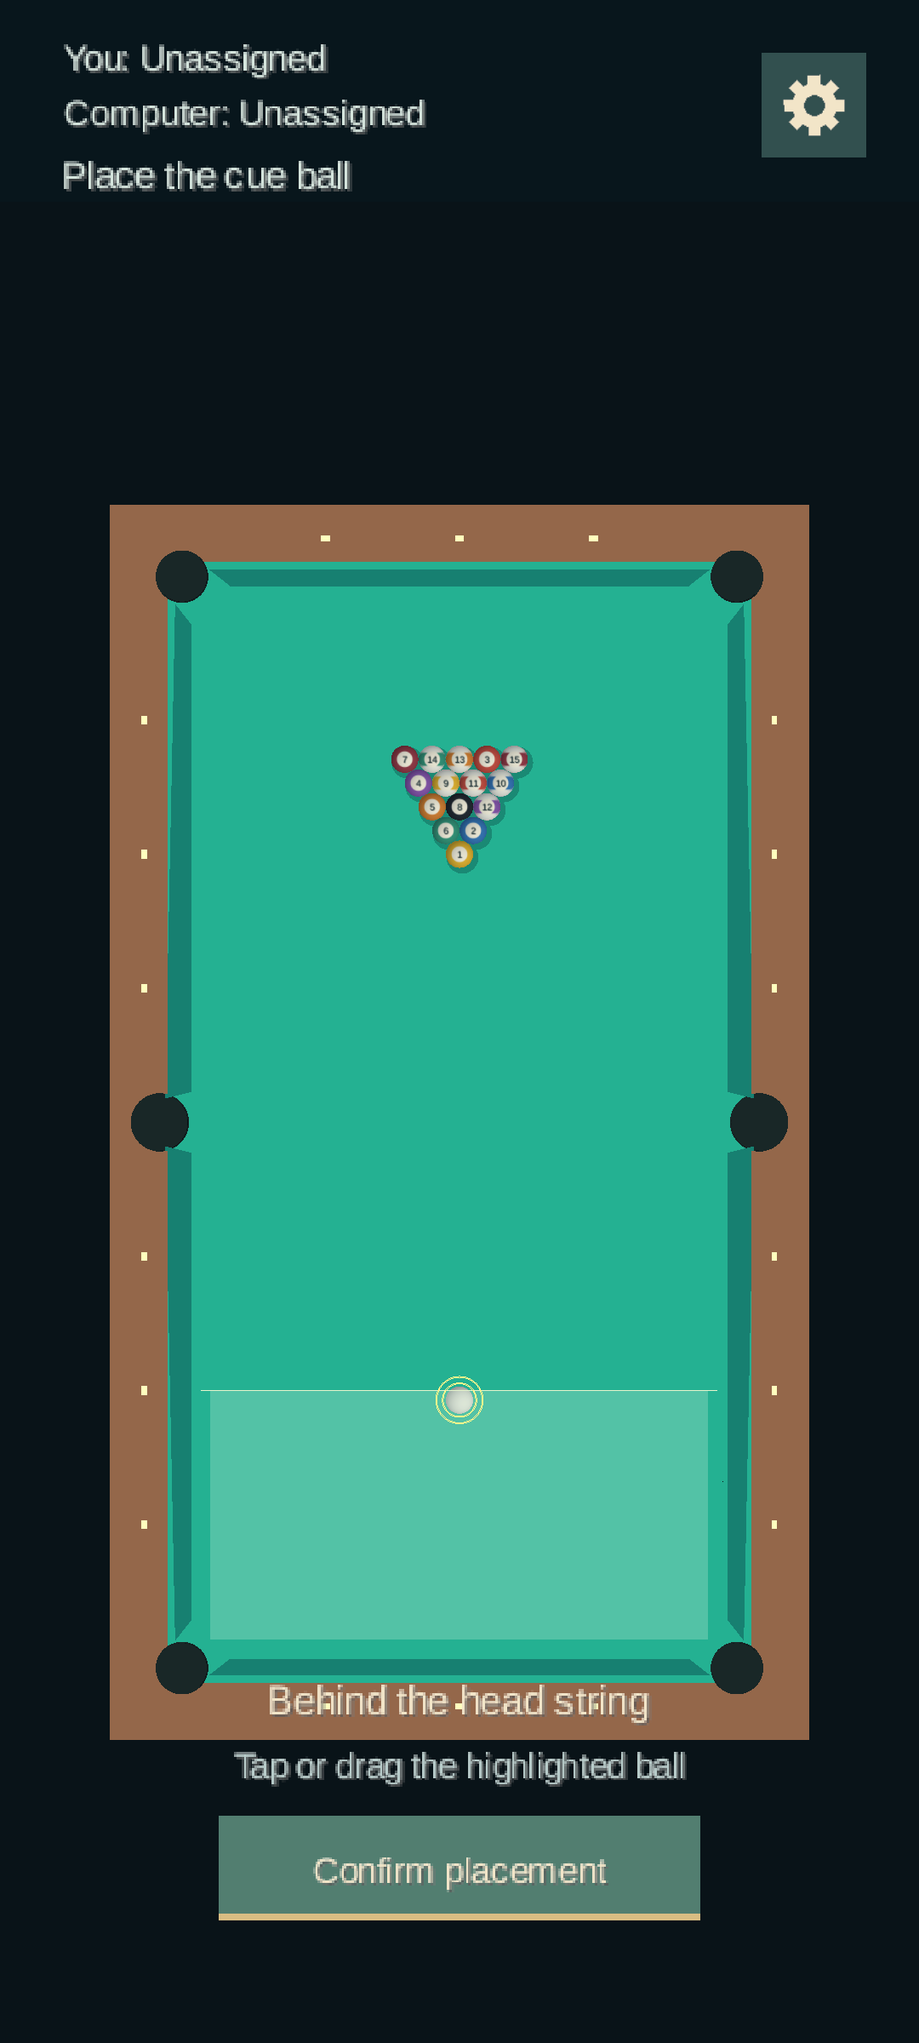
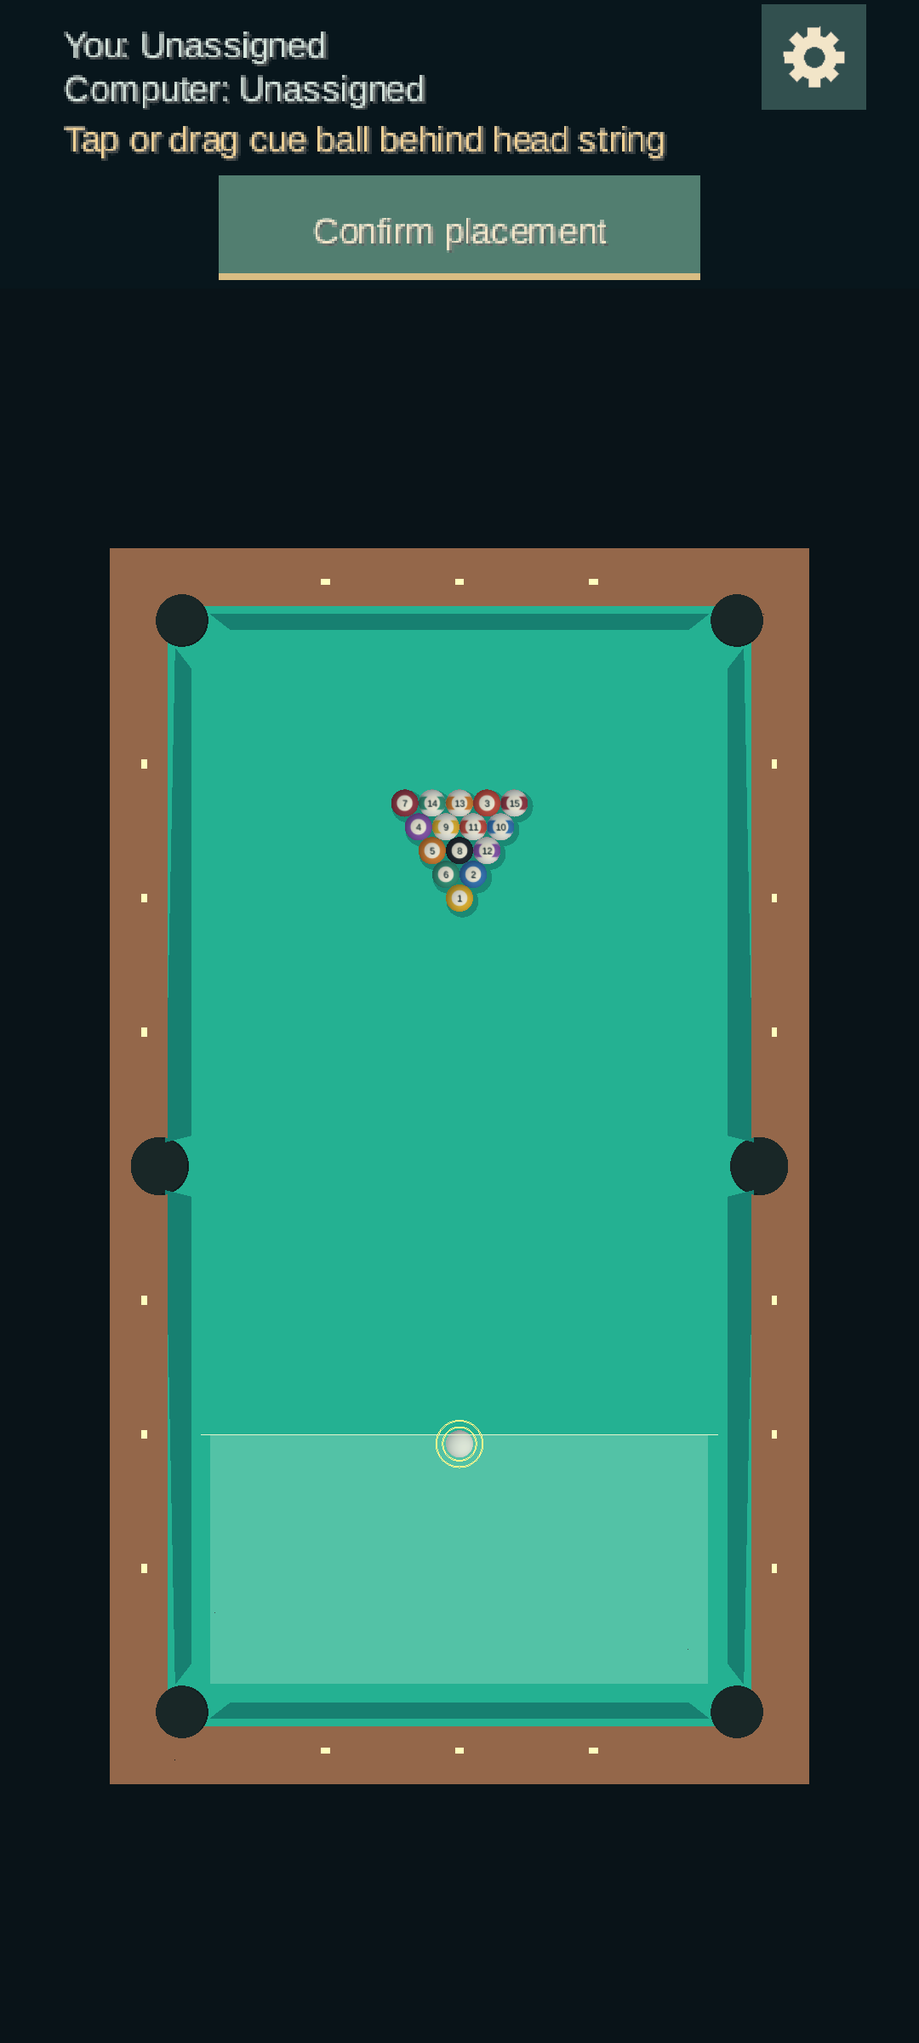
Consolidate notifications and move placement confirmation above table

diff --git a/core/src/main/kotlin/io/github/ffeltrinelli/pool/ui/GameHud.kt b/core/src/main/kotlin/io/github/ffeltrinelli/pool/ui/GameHud.kt
@@ -38,22 +38,34 @@ class GameHud : Disposable {
         finally { pixels.dispose() }
     }
 
+    private var width = 420
+    private var height = 933
+
     fun resize(width: Int, height: Int) {
-        layout = HudLayout(width, height)
+        this.width = width
+        this.height = height
+        updateLayout(layout.placementVisible)
+    }
+
+    private fun updateLayout(placementVisible: Boolean, notificationHeight: Float = 13f) {
+        layout = HudLayout(width, height, placementVisible, notificationHeight)
         camera.setToOrtho(false, 420f, layout.uiHeight)
     }
 
+    fun prepare(session: GameSession, presentation: HudPresentation) {
+        font.data.setScale(1.10f)
+        glyphs.setText(font, notification(session, presentation), Color.WHITE, 362f,
+            com.badlogic.gdx.utils.Align.left, true)
+        val next = HudLayout(width, height, session.placement != null && session.player == Player.HUMAN, glyphs.height)
+        if (next.headerHeight == layout.headerHeight && next.placementVisible == layout.placementVisible) return
+        updateLayout(next.placementVisible, glyphs.height)
+    }
+
     fun render(session: GameSession, mode: ViewMode, aidedAim: Boolean, presentation: HudPresentation) {
-        val h = layout.uiHeight
         sprites.projectionMatrix = camera.combined
         sprites.begin()
         drawHeader(session, presentation)
-        if (session.placement != null && session.player == Player.HUMAN) {
-            val instruction = if (session.placement == io.github.ffeltrinelli.pool.rules.PlacementRegion.ANYWHERE)
-                "Anywhere on the table" else "Behind the head string"
-            text(instruction, 210f, 163f, 1.2f, "f2e5c8", true)
-            text(presentation.placementError ?: "Tap or drag the highlighted ball", 210f, 133f, 1.05f,
-                if (presentation.placementError == null) "b8ccca" else "f29b91", true)
+        if (layout.placementVisible) {
             button(layout.confirmPlacement, "Confirm placement", presentation.placementError == null)
         }
         if (session.finished) drawResult(session)
@@ -68,23 +80,29 @@ class GameHud : Disposable {
         fun groupLabel(player: Player): String = session.group(player)?.let {
             "${it.label}: ${session.remaining(player)} left"
         } ?: "Unassigned"
-        if (presentation.notice != null && !session.finished) {
-            font.data.setScale(1.05f)
-            font.color = Color.valueOf("f2d295")
-            font.draw(sprites, presentation.notice, 29f, h - 18f, 300f, com.badlogic.gdx.utils.Align.left, true)
-        } else {
-            text("You: ${groupLabel(Player.HUMAN)}", 29f, h - 20f, 1.10f, "d5e5dd")
-            text("Computer: ${groupLabel(Player.COMPUTER)}", 29f, h - 45f, 1.10f, "d5e5dd")
-        }
-        val status = when {
+        text("You: ${groupLabel(Player.HUMAN)}", 29f, h - 14f, 1.10f, "d5e5dd")
+        text("Computer: ${groupLabel(Player.COMPUTER)}", 29f, h - 34f, 1.10f, "d5e5dd")
+        font.data.setScale(1.10f)
+        font.color = Color.valueOf(if (presentation.placementError != null) "f29b91" else "f2d295")
+        font.draw(sprites, notification(session, presentation), 29f, h - 57f, 362f,
+            com.badlogic.gdx.utils.Align.left, true)
+    }
+
+    private fun notification(session: GameSession, presentation: HudPresentation): String {
+        if (presentation.notice != null && !session.finished) return presentation.notice
+        return when {
             presentation.computerThinking -> "Computer thinking..."
-            session.placement != null -> if (session.player == Player.HUMAN) "Place the cue ball" else "Computer placing cue ball"
+            session.placement != null -> when {
+                session.player != Player.HUMAN -> "Computer placing cue ball"
+                presentation.placementError != null -> presentation.placementError
+                session.placement == io.github.ffeltrinelli.pool.rules.PlacementRegion.ANYWHERE -> "Tap or drag cue ball anywhere"
+                else -> "Tap or drag cue ball behind head string"
+            }
             session.group(session.player) == null -> if (session.player == Player.HUMAN) "Your turn" else "Computer's turn"
             session.remaining(session.player) == 0 -> if (session.player == Player.HUMAN) "You're on the 8-ball" else "Computer is on the 8-ball"
             session.player == Player.HUMAN -> "Your turn"
             else -> "Computer's turn"
         }
-        text(status, 29f, h - 74f, 1.15f, "d5e5dd")
     }
 
     private fun drawGear() {

diff --git a/core/src/test/kotlin/io/github/ffeltrinelli/pool/GameViewportTest.kt b/core/src/test/kotlin/io/github/ffeltrinelli/pool/GameViewportTest.kt
@@ -10,15 +10,28 @@ import org.junit.Test
 class GameViewportTest {
     @Test fun `reserved HUD and game viewport partition the window at normal and high DPI`() {
         for ((width, height) in listOf(420 to 933, 1080 to 2400, 1080 to 2296)) {
-            val layout = HudLayout(width, height)
-            assertEquals(height, layout.gameTop + layout.gameHeight)
-            assertFalse(layout.containsGame(width / 2, layout.gameTop - 1))
-            assertTrue(layout.containsGame(width / 2, layout.gameTop))
-            assertEquals(0, layout.gameScreenY(layout.gameTop))
-            assertEquals(layout.gameHeight - 1, layout.gameScreenY(height - 1))
-            assertEquals(layout.gameHeight * 2, layout.renderHeight(height * 2))
+            for (placing in listOf(false, true)) {
+                val layout = HudLayout(width, height, placing)
+                assertEquals(height, layout.gameTop + layout.gameHeight)
+                assertFalse(layout.containsGame(width / 2, layout.gameTop - 1))
+                assertTrue(layout.containsGame(width / 2, layout.gameTop))
+                assertEquals(0, layout.gameScreenY(layout.gameTop))
+                assertEquals(layout.gameHeight - 1, layout.gameScreenY(height - 1))
+                assertEquals(layout.gameHeight * 2, layout.renderHeight(height * 2))
+            }
         }
     }
+    @Test fun `placement confirmation stays inside the top strip and clear of notifications`() {
+        val layout = HudLayout(420, 933, placementVisible = true)
+        val button = layout.confirmPlacement
+        assertTrue(button.y >= layout.uiHeight - layout.headerHeight)
+        assertTrue(button.y + button.height <= layout.uiHeight - 76f)
+        assertTrue(button.height >= 48f)
+        assertTrue(layout.confirmsPlacement(210, 104))
+        assertFalse(layout.containsGame(210, 104))
+        assertEquals(76f, HudLayout(420, 933).headerHeight, 0f)
+    }
+
     @Test fun `top view touches match projected table points below the reserved header`() {
         com.badlogic.gdx.utils.GdxNativesLoader.load()
         val layout = HudLayout(1080, 2296)

diff --git a/core/src/main/kotlin/io/github/ffeltrinelli/pool/ui/HudLayout.kt b/core/src/main/kotlin/io/github/ffeltrinelli/pool/ui/HudLayout.kt
@@ -4,17 +4,18 @@ import com.badlogic.gdx.math.Rectangle
 import io.github.ffeltrinelli.pool.opponent.OpponentDifficulty
 
 /** One layout supplies drawing and hit regions, including the modal input barrier. */
-class HudLayout(width: Int, height: Int) {
-    private val width = width.coerceAtLeast(1)
+class HudLayout(width: Int, height: Int, val placementVisible: Boolean = false, notificationHeight: Float = 13f) {
+    val width = width.coerceAtLeast(1)
     private val height = height.coerceAtLeast(1)
     val uiHeight = 420f * this.height / this.width
-    val headerHeight = 92f
+    val notificationBottom = maxOf(76f, 57f + notificationHeight + 6f)
+    val headerHeight = notificationBottom + if (placementVisible) 56f else 0f
     val gameTop = kotlin.math.ceil(headerHeight * this.width / 420f).toInt().coerceAtMost(this.height - 1)
     val gameHeight = this.height - gameTop
     fun gameScreenY(screenY: Int) = screenY - gameTop
     fun containsGame(screenX: Int, screenY: Int) = screenX in 0 until width && screenY in gameTop until height
     fun renderHeight(backBufferHeight: Int) = (backBufferHeight.toLong() * gameHeight / height).toInt().coerceAtLeast(1)
-    val gear = Rectangle(348f, uiHeight - 72f, 48f, 48f)
+    val gear = Rectangle(348f, uiHeight - 50f, 48f, 48f)
     val panel = Rectangle(30f, uiHeight / 2 - 237.5f, 360f, 475f)
     val close = Rectangle(336f, panel.y + panel.height - 54f, 48f, 48f)
     val top = Rectangle(60f, uiHeight / 2 + 97.5f, 146f, 48f)
@@ -26,7 +27,7 @@ class HudLayout(width: Int, height: Int) {
     }
     val restart = Rectangle(60f, uiHeight / 2 - 187.5f, 146f, 48f)
     val exit = Rectangle(214f, uiHeight / 2 - 187.5f, 146f, 48f)
-    val confirmPlacement = Rectangle(100f, 56f, 220f, 48f)
+    val confirmPlacement = Rectangle(100f, uiHeight - headerHeight + 4f, 220f, 48f)
     fun confirmsPlacement(x: Int, y: Int) = confirmPlacement.contains(x * 420f / width, uiHeight - y * uiHeight / height)
     val playAgain = Rectangle(100f, uiHeight / 2 - 85f, 220f, 48f)
 

diff --git a/core/src/test/kotlin/io/github/ffeltrinelli/pool/GameInputTest.kt b/core/src/test/kotlin/io/github/ffeltrinelli/pool/GameInputTest.kt
@@ -94,13 +94,13 @@ class GameInputTest {
             assertTrue(input.touchDown(210, 466, 0, Input.Buttons.LEFT))
             input.touchUp(210, 466, 0, Input.Buttons.LEFT)
             assertEquals(CuePhase.IDLE, gesture.phase)
-            input.touchDown(210, 853, 0, Input.Buttons.LEFT)
+            input.touchDown(210, 104, 0, Input.Buttons.LEFT)
             assertNotNull(session.placement)
             input.touchDown(210, 630, 0, Input.Buttons.LEFT)
             input.touchDragged(240, 680, 0)
             input.touchUp(240, 680, 0, Input.Buttons.LEFT)
             assertNotNull(session.placement)
-            input.touchDown(210, 853, 0, Input.Buttons.LEFT)
+            input.touchDown(210, 104, 0, Input.Buttons.LEFT)
             assertNull(session.placement)
             assertTrue(session.humanTurn)
             assertTrue(shots.isEmpty())
@@ -127,10 +127,10 @@ class GameInputTest {
             val session = GameSession().apply { if (!placing) confirmPlacement() }
             val gesture = CueGesture()
             val shots = mutableListOf<ShotCommand>()
-            val views = GameViews().apply { resize(420, HudLayout(420, 933).gameHeight) }
+            val views = GameViews().apply { resize(420, HudLayout(420, 933, placing).gameHeight) }
             val placement = io.github.ffeltrinelli.pool.input.CueBallPlacement()
             views.placing = placing
-            val input = GameInput(controls, session, { HudLayout(420, 933) }, views, physics, gesture, { session.humanTurn }, shots::add, placement) {
+            val input = GameInput(controls, session, { HudLayout(420, 933, placing) }, views, physics, gesture, { session.humanTurn }, shots::add, placement) {
                 val region = session.placement
                 if (region != null && placement.invalidReason(physics.snapshot(), region) == null) {
                     physics.placeBall(0, placement.point)

diff --git a/core/src/main/kotlin/io/github/ffeltrinelli/pool/input/GameInput.kt b/core/src/main/kotlin/io/github/ffeltrinelli/pool/input/GameInput.kt
@@ -46,13 +46,15 @@ internal class GameInput(
         }
         val action = layout().hit(x, y, controls.settingsOpen, session.finished)
         if (action != null) { controls.handle(action); return true }
+        if (controls.acceptsGameplay && session.placement != null && session.player == Player.HUMAN &&
+            layout().confirmsPlacement(x, y)) {
+            confirmPlacement()
+            return true
+        }
         if (!layout().containsGame(x, y)) return true
         if (controls.acceptsGameplay && session.placement != null && session.player == Player.HUMAN) {
-            if (layout().confirmsPlacement(x, y)) confirmPlacement()
-            else {
-                placement.move(views.active.beginInput(x, layout().gameScreenY(y), placement.point, gesture.direction))
-                gameplayPointer = pointer
-            }
+            placement.move(views.active.beginInput(x, layout().gameScreenY(y), placement.point, gesture.direction))
+            gameplayPointer = pointer
             return true
         }
         if (!controls.acceptsGameplay || !canShoot() || gameplayPointer != null) return false

diff --git a/core/src/main/kotlin/io/github/ffeltrinelli/pool/render/PoolRenderer.kt b/core/src/main/kotlin/io/github/ffeltrinelli/pool/render/PoolRenderer.kt
@@ -100,6 +100,11 @@ class PoolRenderer : Disposable {
         table: TablePresentation = TablePresentation(),
         hudState: HudPresentation = HudPresentation()
     ) {
+        val previousGameHeight = hud.layout.gameHeight
+        hud.prepare(session, hudState)
+        if (hud.layout.gameHeight != previousGameHeight) {
+            views.resize(hud.layout.width, hud.layout.gameHeight)
+        }
         Gdx.gl.glViewport(0, 0, pixelWidth, hud.layout.renderHeight(pixelHeight))
         Gdx.gl.glClearColor(0.035f, 0.075f, 0.095f, 1f)
         Gdx.gl.glClear(GL20.GL_COLOR_BUFFER_BIT or GL20.GL_DEPTH_BUFFER_BIT)

diff --git a/tools/check_opponent_device.py b/tools/check_opponent_device.py
@@ -73,7 +73,7 @@ def main():
     shell('am start -W -n ' + ACTIVITY)
     wait_for(lambda: pool_is_foreground() and hud_visible(), 'first foreground game frame')
     capture('reopened')
-    shell('input tap 956 226')
+    shell('input tap 956 170')
     capture('settings')
     for level, x in [('EASY', 283), ('MEDIUM', 540), ('HARD', 797)]:
         select_difficulty(level, x)
@@ -88,13 +88,13 @@ def main():
     checks['outside_tap_preserves_difficulty'] = preference('opponent-difficulty') == 'HARD'
     shell('input tap 926 718')  # X dismisses the modal.
     capture('x-dismissed')
-    shell('input tap 956 226')
+    shell('input tap 956 170')
     select_difficulty('MEDIUM', 540)
     capture('difficulty-medium-restored')
     shell('input keyevent KEYCODE_BACK')
     capture('back-dismissed')
     pid = shell('pidof ' + PACKAGE).strip()
-    shell('input tap 956 226')  # Suspend with Settings still open through Home/resume.
+    shell('input tap 956 170')  # Suspend with Settings still open through Home/resume.
     capture('before-background')
     shell('input keyevent KEYCODE_HOME')
     shell('am start -W -n ' + ACTIVITY)
@@ -105,7 +105,7 @@ def main():
     checks['background_preserves_open_settings'] = preference('opponent-difficulty') == 'HARD'
     shell('input keyevent KEYCODE_BACK')
     for index in range(3):
-        shell('input tap 956 226')
+        shell('input tap 956 170')
         shell('input tap 342 1672')
         time.sleep(.1)
         capture('restart-' + str(index))
@@ -113,7 +113,7 @@ def main():
     shell('am start -W -n ' + ACTIVITY)
     wait_for(lambda: pool_is_foreground() and hud_visible(), 'new process foreground frame')
     checks['difficulty_persists_after_process_restart'] = preference('opponent-difficulty') == 'HARD'
-    shell('input tap 956 226')
+    shell('input tap 956 170')
     select_difficulty('MEDIUM', 540)
     shell('input tap 738 1672')
     wait_for(lambda: not pool_is_foreground(), 'Exit finishing the activity')

diff --git a/tools/device_check.py b/tools/device_check.py
@@ -60,11 +60,11 @@ def main():
             # OnePlus API 34 safe viewport starts at y=103; coordinates include that cutout inset.
             # Back dismisses any open settings before opening a fresh modal.
             shell('input keyevent KEYCODE_BACK')
-            shell('input tap 956 226')
+            shell('input tap 956 170')
             shell('input tap ' + ('342' if args.view == 'top' else '738') + ' 939')
             shell('input tap 342 1672')
             time.sleep(0.3)
-            shell('input tap 540 2193')  # Confirm fresh-break placement on human racks.
+            shell('input tap 540 370')  # Confirm fresh-break placement on human racks.
             time.sleep(0.3)
             shell('input touchscreen swipe 540 1850 540 1400 220')
             shot_count += 1

diff --git a/README.md b/README.md
@@ -78,7 +78,7 @@ The head string lies one-quarter of the table length from the head end; the foot
 - The selected view, aided-aim setting and computer difficulty are remembered across rack restarts and app launches; the first launch uses Top view, aided aim On and Medium difficulty. Older play-mode preferences are ignored; all installations play against the computer.
 - Ball collisions click, cushions thud, and cue contact plays a separate strike. Every physical pocket drop plays the pocket sound, including repeated cue-ball scratches after ball-in-hand placement. Stronger impacts are louder. There is no music or in-game volume control.
 
-The HUD occupies a reserved strip above the game viewport, so group/turn text never covers the aiming scene. Notifications temporarily replace the group rows inside that strip. Table input is mapped relative to the viewport below it. Top view uses the original fixed portrait overhead camera and shows the whole table with gesture space around the rails. Player view uses a raised first-person perspective and may crop parts of the table. The cue is drawn over the table borders and balls so it stays visible near rails in both views, including computer strokes. It keeps its perspective and lighting, and is still clipped at screen edges. Settings and the HUD remain above it; there are no cue obstruction, spin, or jump-shot controls.
+The HUD occupies a compact reserved strip above the game viewport, so group/turn text never covers the aiming scene. Gold notifications are distinct from the pale player labels. Placement guidance and invalid-position feedback share that top notification line; Confirm placement appears directly beneath it, above the table, only during human placement. Long notifications wrap within the strip while keeping the player labels visible. Table input is mapped relative to the viewport below it. Top view uses the original fixed portrait overhead camera and shows the whole table with gesture space around the rails. Player view uses a raised first-person perspective and may crop parts of the table. The cue is drawn over the table borders and balls so it stays visible near rails in both views, including computer strokes. It keeps its perspective and lighting, and is still clipped at screen edges. Settings and the HUD remain above it; there are no cue obstruction, spin, or jump-shot controls.
 
 ## Architecture and tuning
 

diff --git a/docs/eight-ball-review.md b/docs/eight-ball-review.md
@@ -9,7 +9,7 @@ The current game implements the simplified WPA variant described in [the README]
 - Human placement has an independent preview and confirmation. Shared geometry validation rejects balls, bounds, jaws, cushions and pocket openings. The computer evaluates bounded placement/shot pairs under its existing budget.
 - The eight is spotted by a focused physics operation that preserves every other body's transform. The obsolete automatic starting-half replacement search was removed.
 - Ball-in-hand positions prioritize pot-aligned locations before break-spot grid fallbacks, and every shortlisted position gets an evaluated seed. A native Hard regression wins from five eight-ball-only-target layouts, including opponent blockers.
-- The HUD omits the Pool title and redundant open-table line, retaining Unassigned in the ownership rows. It uses user-accepted larger text inside a reserved strip above the scene for Player-view readability. A shared layout defines the game viewport and touch offset; messages stay inside the strip. Balls use matte materials and softer diffuse illumination below clipping to reduce number-obscuring glare.
+- The HUD omits the Pool title and redundant open-table line, retaining Unassigned in the ownership rows. It uses user-accepted larger text inside a reserved strip above the scene for Player-view readability. A shared layout defines the game viewport and touch offset; messages stay inside a gold notification area, separate from player labels. Placement errors share that area and confirmation occupies a temporary top row. Ordinary row spacing is compact; long messages reserve their wrapped height. Balls use matte materials and softer diffuse illumination below clipping to reduce number-obscuring glare.
 - The computer worker retains its cancellation/resource boundary. Selected placement is applied once before animation; suspension retains the selected shot without duplicating placement or contact.
 - Physics material/solver tuning, human gestures, camera tuning, execution-error levels and audio assets are unchanged. Rack positions/packing intentionally follow the corrected rack.
 

diff --git a/docs/device-validation.md b/docs/device-validation.md
@@ -284,3 +284,9 @@ Local verification: 161 passed tests, one opt-in calibration skipped, 135 render
 Following further feedback, moved the ownership rows, turn label and gear upward and reduced the reserved strip from 120 to 92 logical pixels without reducing fonts. This returns approximately 72 physical vertical pixels on the 1080-pixel-wide OnePlus. Updated device-script gear coordinates accordingly.
 
 On the revised OnePlus build, the gear at its new location opened Settings and Android Back dismissed it. Captures confirm the compact header and unobstructed scene; the preceding viewport build also exercised valid placement and a cancelled backswing without changing the selected font sizes.
+
+### Unified notification and placement controls
+
+Further feedback requested one notification location, distinct player/message colours, tighter row spacing, and placement confirmation above the table. The normal HUD now uses 76 logical pixels (previously 92), with closer player rows and a gold notification line; invalid-placement feedback uses red in that same line. Placement guidance no longer appears below the table. Human placement adds a 56-logical-pixel confirmation row at the top, removed immediately after confirmation. Long notices wrap in the notification area and reserve their measured height; ownership labels remain visible. The viewport and input offset follow the resulting layout.
+
+Local verification: 162 tests passed, one opt-in calibration skipped, 135 rendered scenarios passed, four audio assets/lifecycle passed, Android lint and debug APK passed. Tests cover the top confirmation hit region, blocked invalid confirmation, viewport partition and mapped table touches. Installed on OnePlus 8T/API 34 and visually inspected the new top placement layout; before/after phone captures are committed under `docs/images/eight-ball/placement-hud-*`. User acceptance of the new layout remains pending.
